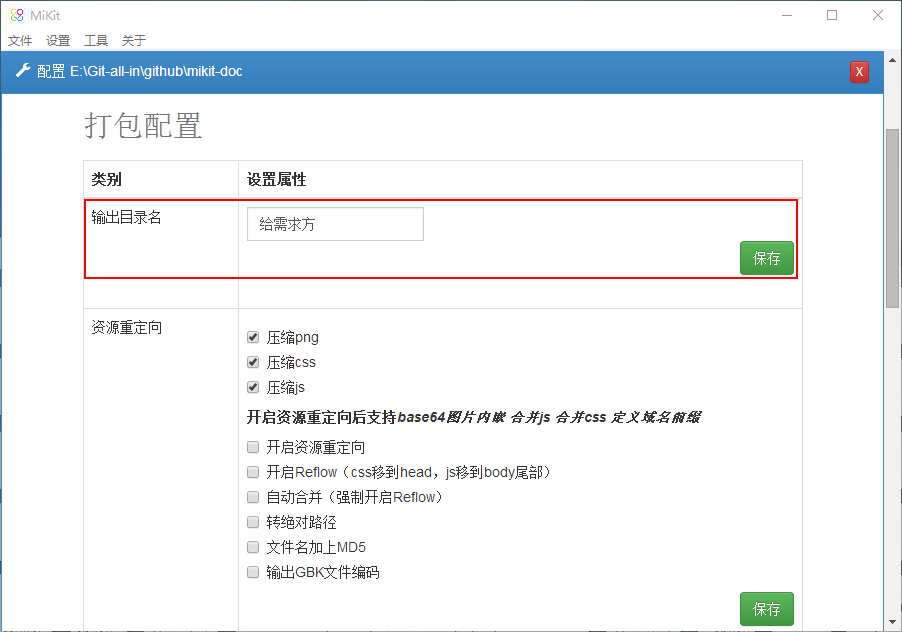
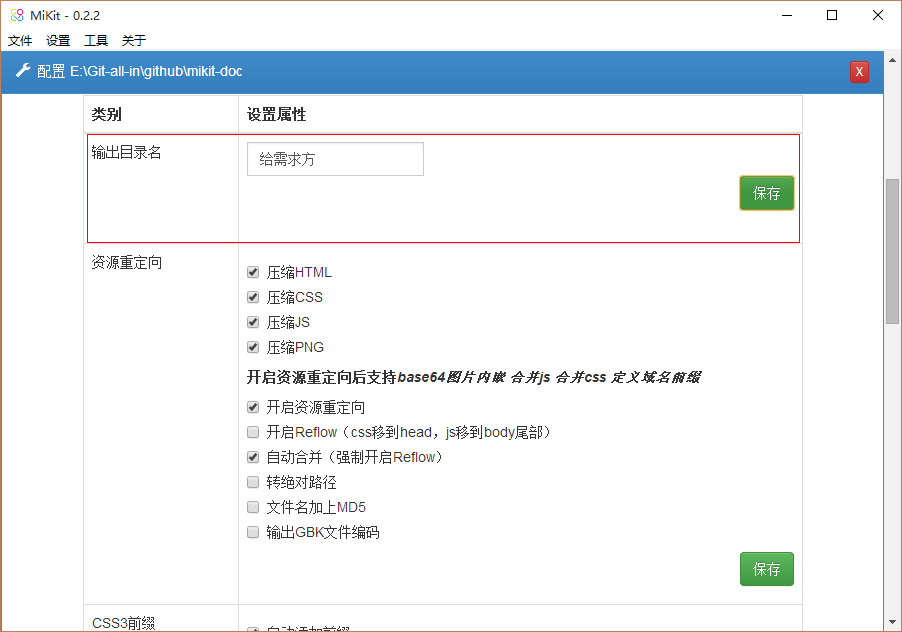
update

diff --git a/wwwroot/index.html b/wwwroot/index.html
@@ -23,7 +23,7 @@
                     <li class="pure-menu-item"><a href="md/setting.md" class="pure-menu-link">全局设置</a></li>
                     <li class="pure-menu-item"><a href="md/scaffolding.md" class="pure-menu-link">自定义脚手架</a></li>
                     <li class="pure-menu-item menu-item-divided"><a href="md/pack.md" class="pure-menu-link">打包配置</a></li>
-                    <li class="pure-menu-item"><a href="md/autoprefixer.md" class="pure-menu-link">自动添加前缀</a></li>
+                    <li class="pure-menu-item"><a href="md/public.md" class="pure-menu-link">发布域名配置</a></li>
                 </ul>
             </div>
         </div>

diff --git a/wwwroot/md/public.md b/wwwroot/md/public.md
@@ -1,0 +1,57 @@
+# 发布域名前缀配置
+
+## 一、自定义
+
+> 高级功能且目前支持不完善，直接使用图片资源域名或全局资源域名即可满足大部分场景。
+
+**注意：以下功能都需要开启资源重定向功能**
+
+## 二、图片资源域名
+
+![](./md/img/doc-public-01.jpg)
+
+如图所示添加域名，不要以```/```结尾，可添加多个 CDN 地址，MiKit 会自动查找本地图片是否存在，如果存在则随机添加 CDN 地址。
+
+## 三、全局资源域名
+
+与图片资源域名类似，全局资源域名是指给 ```html``` 里面引用到的本地 CSS/JS 等地址添加域名前缀。
+
+**打包前**
+
+```
+<!DOCTYPE html>
+<html lang="zh-cmn-Hans">
+<head>
+    <meta charset="UTF-8">
+    <meta name="viewport" content="width=device-width, initial-scale=1.0">
+    <title>Public Domain</title>
+    <link type="text/css" rel="stylesheet" href="css/pure-min.css">
+    <link type="text/css" rel="stylesheet" href="css/custom.css">
+</head>
+<body>
+    <script type="text/javascript" src="js/lib/markd.js"></script>
+    <script type="text/javascript" src="js/lib/highlight.min.js"></script>
+    <script type="text/javascript" src="js/main.js"></script>
+</body>
+</html>
+```
+
+**打包后**
+
+```
+<!DOCTYPE html>
+<html lang="zh-cmn-Hans">
+<head>
+    <meta charset="UTF-8">
+    <meta name="viewport" content="width=device-width, initial-scale=1.0">
+    <title>Public Domain</title>
+    <link type="text/css" rel="stylesheet" href="http://static.milly.me/css/pure-min.css">
+    <link type="text/css" rel="stylesheet" href="http://static.milly.me/css/custom.css">
+</head>
+<body>
+    <script type="text/javascript" charset="utf-8" src="http://static.milly.me/js/lib/markd.js"></script>
+    <script type="text/javascript" charset="utf-8" src="http://static.milly.me/js/lib/highlight.min.js"></script>
+    <script type="text/javascript" charset="utf-8" src="http://static.milly.me/js/main.js"></script>
+</body>
+</html>
+```

diff --git a/wwwroot/md/pack.md b/wwwroot/md/pack.md
@@ -16,12 +16,16 @@
 
 ## 二、资源重定向
 
-- 压缩HTML
-- 压缩CSS
-- 压缩JS
-- 压缩PNG
-
-勾选对应选项则会压缩```wwwroot```下对应的文件。
+- 压缩 HTML：压缩 .html 文件
+- 压缩 CSS：压缩 .css 文件
+- 压缩 JS：压缩 .js 文件
+- 压缩 PNG：压缩 .png 文件
+- 开启资源重定向：可自动生成雪碧图，需要在生成雪碧图的图片地址后面加上```?__sprite```，最终生成的图片与CSS在同一个目录
+- 开启Reflow：CSS 移动到 head 部分，JS 移动到 body 尾部
+- 自动合并（强制开启Reflow）：自动合并CSS与JS文件，并且会强制执行 Reflow
+- 转绝对路径：
+- 文件名加上MD5：打包后将在文件名后面自动加上MD5
+- 输出GBK文件编码：如果是 HTML 文件需要先将```<meta charset="UTF-8">```改成 GBK，然后再进行转换才能保证中文不会乱码。
 
 
 ## 三、CSS3前缀
